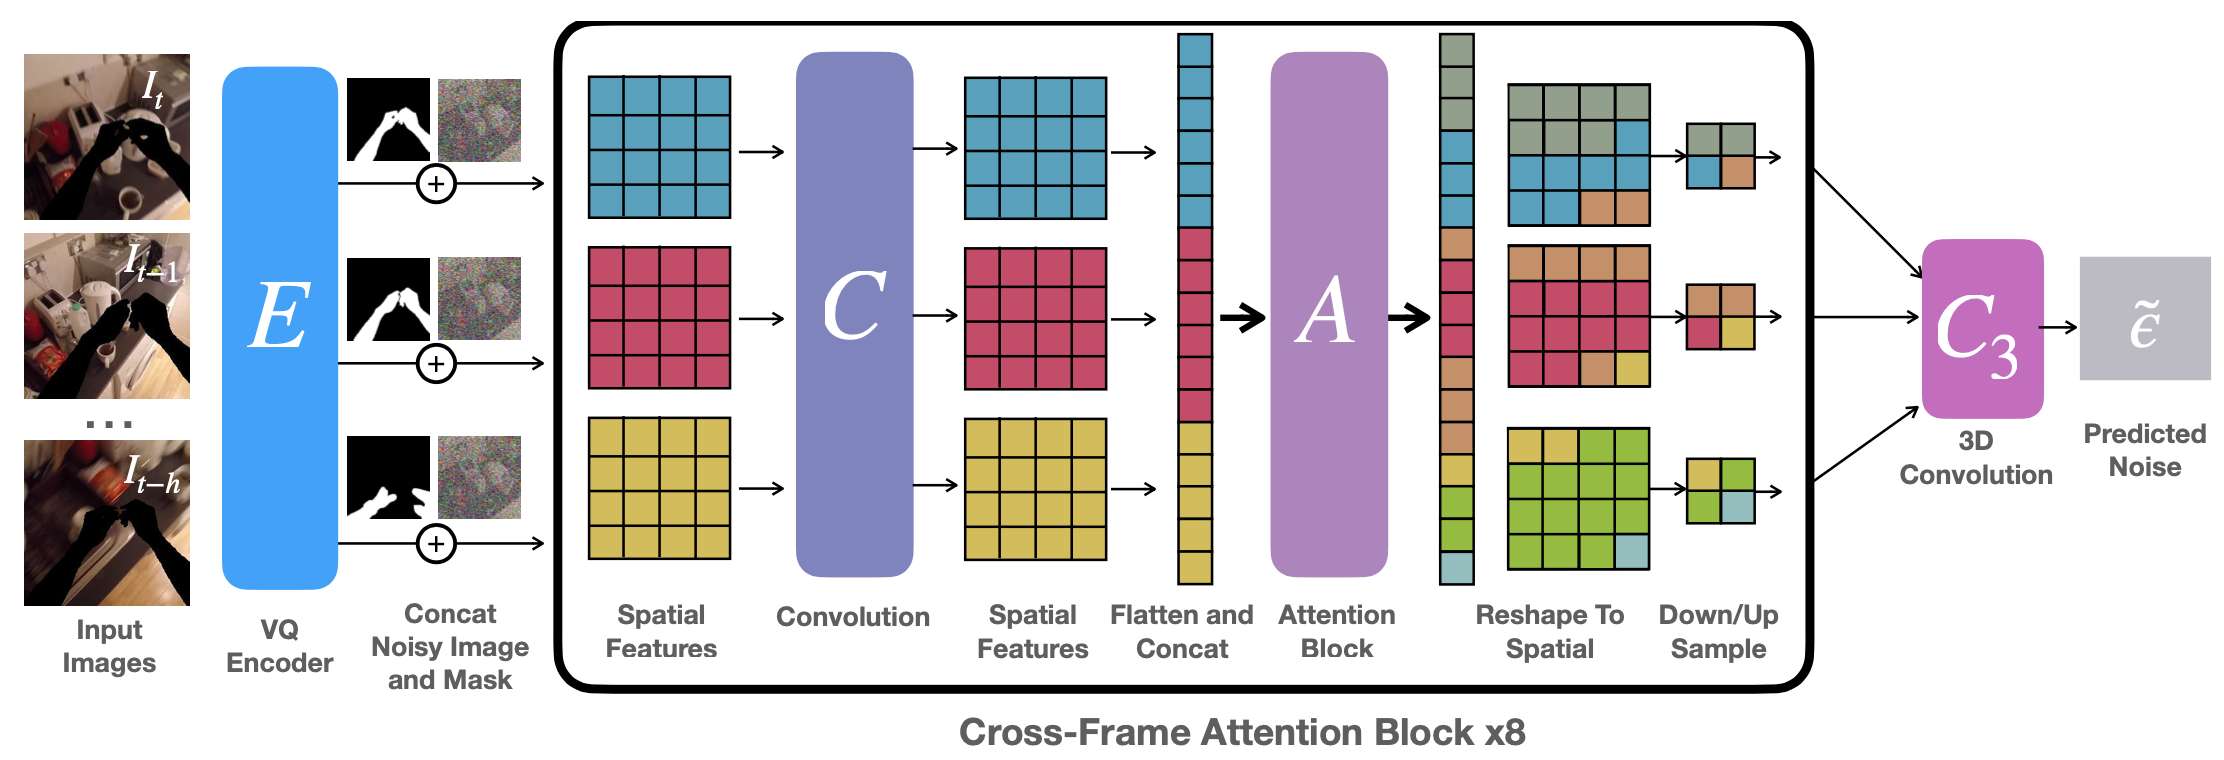
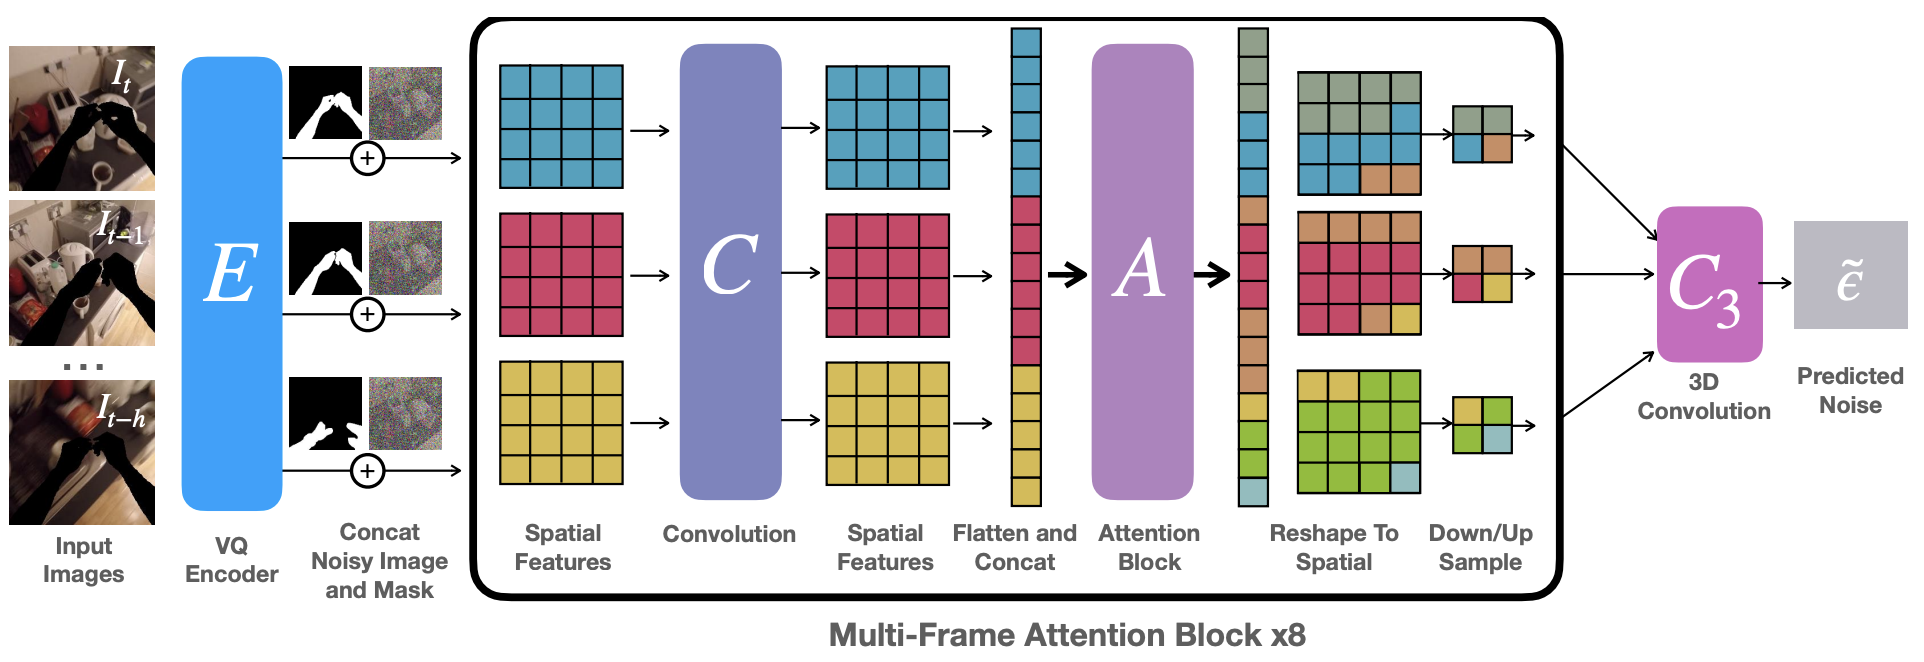
update figure

Changed region(s): [[0.0, 0.0, 0.9979, 0.997], [0.9667, 0.4834, 0.9979, 0.5136], [0.7796, 0.0302, 0.8108, 0.0604]]

diff --git a/index.html b/index.html
@@ -240,7 +240,7 @@
   <br />
 
 
-  <div style="width:800px; margin:0 auto; text-align:justify">The analysis and use of egocentric videos for robotic tasks is made challenging by occlusion due to the hand and the visual mismatch between the human hand and a robot end-effector. In this sense, the human hand presents a nuisance. However, often hands also provide a valuable signal, e.g. the hand pose may suggest what kind of object is being held. In this work, we propose to extract a factored representation of the scene that separates the agent (human hand) and the environment. This alleviates both occlusion and mismatch while preserving the signal, thereby easing the design of models for downstream robotics tasks. At the heart of this factorization is our proposed Video Inpainting via Diffusion Model (VIDM) that leverages both a prior on real-world images (through a large-scale pre-trained diffusion model) and the appearance of the object in earlier frames of the video (through attention). Our experiments demonstrate the effectiveness of VIDM at improving the in-painting quality in egocentric videos and the power of our factored representation for numerous tasks: object detection, 3D reconstruction of manipulated objects, and learning of reward functions, policies, and affordances from videos.</div>
+  <div style="width:800px; margin:0 auto; text-align:justify">The analysis and use of egocentric videos for robotic tasks is made challenging by occlusion due to the hand and the visual mismatch between the human hand and a robot end-effector. In this sense, the human hand presents a nuisance. However, often hands also provide a valuable signal, e.g. the hand pose may suggest what kind of object is being held. In this work, we propose to extract a factored representation of the scene that separates the agent (human hand) and the environment. This alleviates both occlusion and mismatch while preserving the signal, thereby easing the design of models for downstream robotics tasks. At the heart of this factorization is our proposed Video Inpainting via Diffusion Model (VIDM) that leverages both a prior on real-world images (through a large-scale pre-trained diffusion model) and the appearance of the object in earlier frames of the video (through attention). Our experiments demonstrate the effectiveness of VIDM at improving inpainting quality on egocentric videos and the power of our factored representation for numerous tasks: object detection, 3D reconstruction of manipulated objects, and learning of reward functions, policies, and affordances from videos.</div>
   <br />
 
   <hr />
@@ -299,7 +299,7 @@ effective transfer across embodiments.</div>
     <h1>Video Inpainting Diffusion Model (VIDM)</h1>
   </center>
   <div style="width:800px; margin:0 auto; text-align:justify">
-We extend pre-trained single-frame inpainting diffusion models to videos. Features from context frames are introduced as additional inputs into the Attention Block A. We repeat the cross-frame attention block 8 times (4 to encode and 4 to decode) to construct the U-Net that conducts 1 step of denoising. The U-Net operates in the VQ encoder latent space.
+We extend pre-trained single-frame inpainting diffusion models to videos. Features from context frames are introduced as additional inputs into the Attention Block A. We repeat the multi-frame attention block 8 times (4 to encode and 4 to decode) to construct the U-Net that conducts 1 step of denoising. The U-Net operates in the VQ encoder latent space.
   </div>
   <br />
   <p style="margin-top:4px;">
